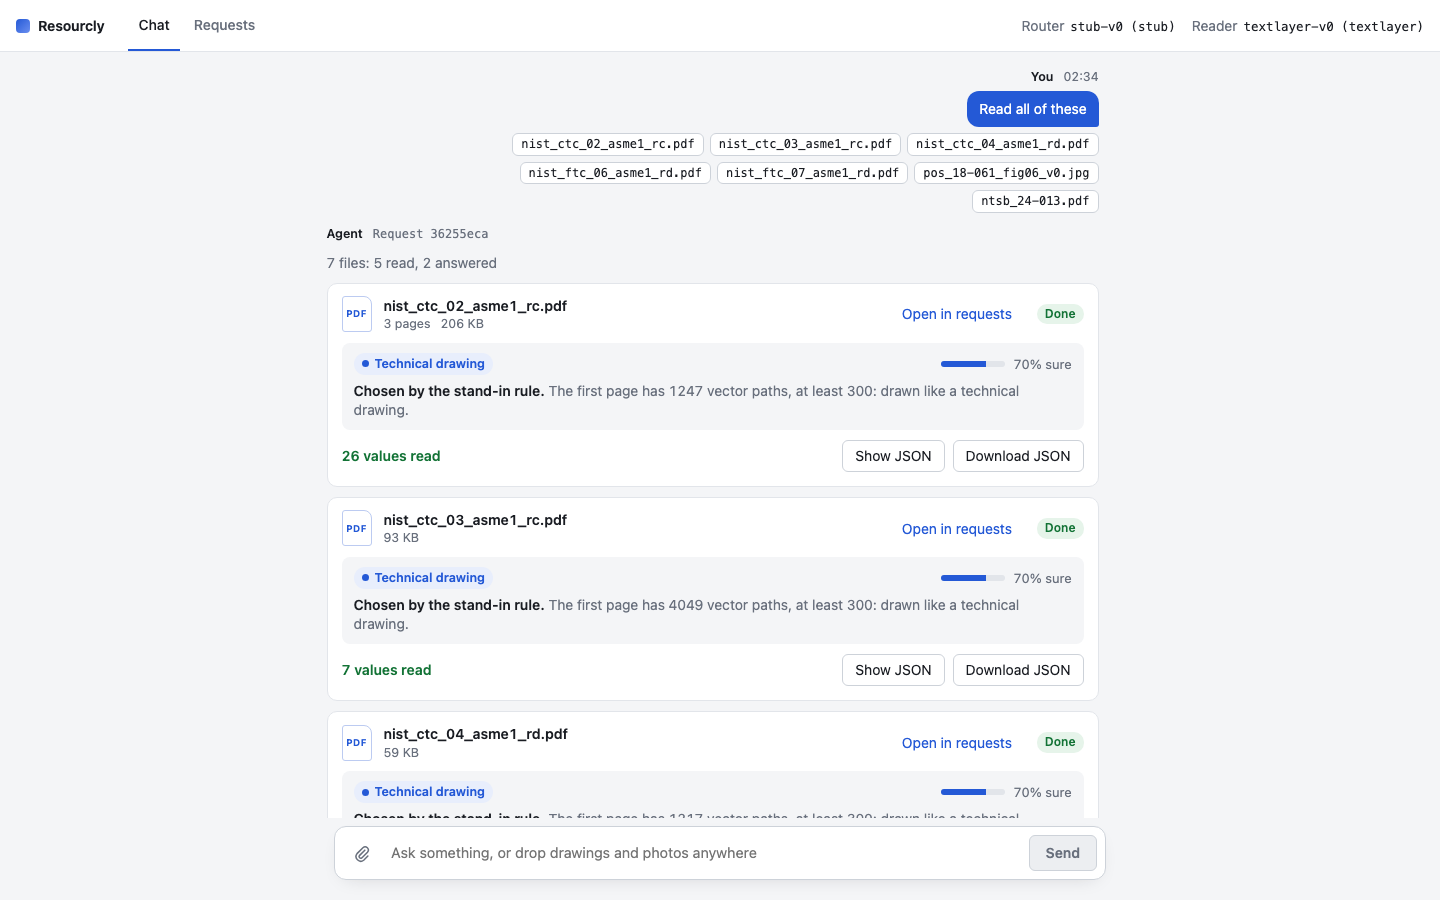
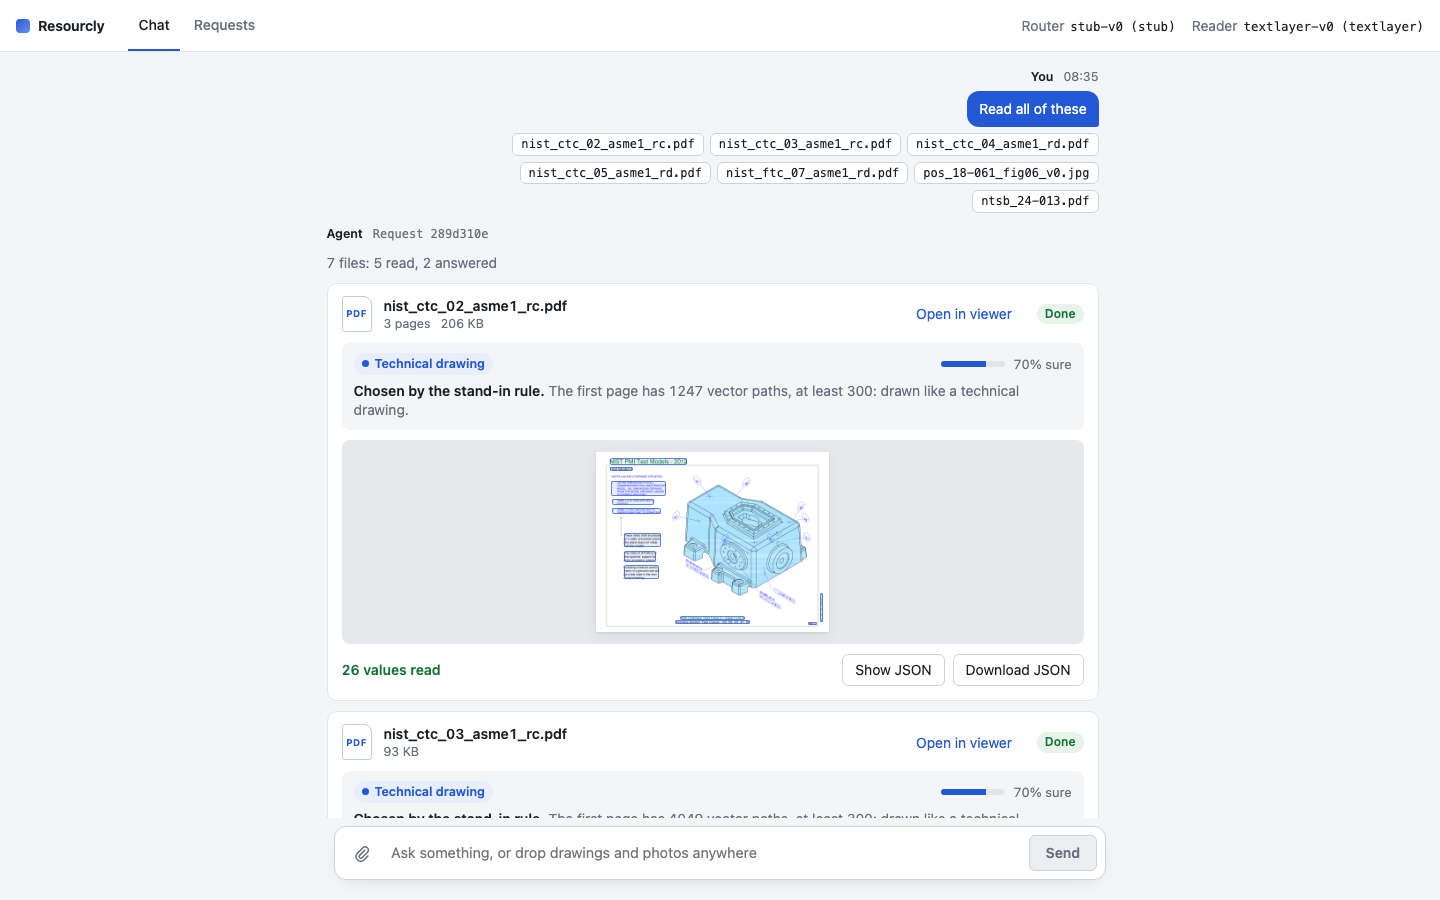
docs(chat): the page view linked to the JSON
docs/chat-ui.md shows the viewer, with new screenshots of the real app
on stub-v0 and the text-layer reader. NOTES names the page endpoint in
place of saying there is no page image.

diff --git a/docs/chat-ui.md b/docs/chat-ui.md
@@ -1,10 +1,10 @@
 # Chat screen
 
 The chat screen is the browser side of the agent API. You send a message with text, files, or
-both, and watch each file get its case and its result. A second screen lists the requests and
-shows what the agent did for each one, step by step.
+both, and watch each file get its case and its result. A second screen opens one file with its
+page beside its values, and shows what the agent did for its request, step by step.
 
-![A drawing read in the chat, with its JSON open](img/chat-ui/chat-drawing.png)
+![A drawing read in the chat, its values marked on the page](img/chat-ui/chat-drawing.png)
 
 ## Start it
 
@@ -13,12 +13,12 @@ shows what the agent did for each one, step by step.
 uv run resourcly serve   # http://127.0.0.1:8000
 ```
 
-`serve` serves the built screen and the API on one port. Without a build it serves the API only
-and says how to build. `RESOURCLY_CHAT_UI_DIST` points it at another build. The label screen
-stays on `uv run resourcly annotation-ui`.
+`serve` serves the built screen and the API on one port, or the API alone until it is built.
+`RESOURCLY_CHAT_UI_DIST` points it at another build. The label screen stays on
+`uv run resourcly annotation-ui`.
 
-To work on the screen, run the API and the Vite dev server side by side. Vite reloads the page on
-each edit and sends every `/api` call to the API.
+To work on the screen, run the API and the Vite dev server side by side. Vite reloads on each
+edit and sends every `/api` call to the API.
 
 ```sh
 uv run resourcly serve                  # the API on port 8000
@@ -30,29 +30,32 @@ Before a commit, run `npm test`, `npm run lint` and `npm run build` in `src/fron
 
 ## Chat
 
-Type a message, attach files with the clip or drop them anywhere on the page, and press Enter.
-Many files in one message is a bulk upload. Each file gets its own card, and a line over the
-cards counts how many are read, answered, in progress or failed.
+Type a message, attach files with the clip or drop them anywhere, and press Enter. Many files in
+one message is a bulk upload: each file gets a card, and a line over them counts their states.
 
 Each card shows the router's answer: the case, the layer that chose it, how sure it was, and why.
-A drawing shows its progress while it is read, then the number of values read, with buttons to
-show the JSON in place or to download it. A photo or a text question gets a reply that the answer
-is not available yet. A file that fits no case gets a reply that says so.
+A drawing shows its page with a box on each callout as it is read, then buttons to show or
+download its JSON. A photo or a text question gets a reply that the answer is not available yet,
+and a file that fits no case gets a reply that says so. Click a page to open the file.
 
 ![A bulk upload of seven files](img/chat-ui/bulk-upload.png)
 
 ## Requests
 
-The Requests screen lists the latest requests and their files. Pick a file to see its case, its
-reply or its JSON, and the trace of its request beside them. The trace lists every step, what it
-called and how long it took. Under each routing step it lists every router layer that was asked:
-whether it decided or passed the file on, how sure it was, and why. For a bulk upload the trace
-starts on the open file's steps, and Whole request shows them all.
+The Requests screen opens one file: its page with a numbered box on each value, and its case and
+JSON beside it. Point at a box or a JSON entry and the other lights up. Click a box and the JSON
+scrolls to it; pick a value in the JSON and its page opens with the box in view. `J` and `K` step
+through the values, the buttons or Ctrl and the wheel zoom, and a drag pans.
 
-The box over the list finds a request by its id or the start of it, even one too old for the
-list. The same trace is in a terminal with `uv run resourcly request <id>`.
+![A value picked on the page, and its JSON](img/chat-ui/linked-view.png)
+
+The Trace tab lists every step of the request, what it called and how long it took. Under each
+routing step is every router layer asked: whether it decided or passed the file on, how sure it
+was, and why. For a bulk upload it starts on the open file's steps. The same trace is in a
+terminal with `uv run resourcly request <id>`.
 
 ![The trace of one file, with the router's verdict](img/chat-ui/request-trace.png)
 
-Both screens ask the API again about once a second while any request is working. Nothing streams
-yet.
+The request list folds away while a file is open; the arrow on the left brings it back. Its box
+finds a request by its id or the start of it, even one too old for the list. Both screens poll
+about once a second while a request works. Nothing streams yet.

diff --git a/NOTES.md b/NOTES.md
@@ -123,11 +123,12 @@ the label screen, and shares no code with it.
 
 - How: `uv run resourcly serve` serves the built screen and the API on one port. One message is
   one request, and the screen polls the requests while any of them works. Each file's card shows
-  the route, the layer that chose it, how sure it was and why. The Requests screen shows a file's
-  JSON beside its request's trace, with each router layer's verdict under the routing step.
-- Why there is no page image: the API has no endpoint that renders an uploaded page, so a
-  drawing's result is its JSON. A page with a numbered box per value, as on the label screen,
-  needs one more endpoint.
+  the route, the layer that chose it, how sure it was and why, and the page with its values.
+- The viewer: a file opens with its page beside its JSON. Each value has a numbered box, and the
+  box and the JSON entry are linked both ways, so a person can check every value against the
+  drawing. The trace tab lists each router layer's verdict under the routing step.
+- The page comes from `GET /api/requests/<id>/items/<item>/pages/<n>.png`. Uploads are kept as
+  PDFs, a photo as a one-page PDF, so the one endpoint serves both.
 - What comes next: a live trace stream in place of the polling, and real answers for photos and
   text questions.
 
